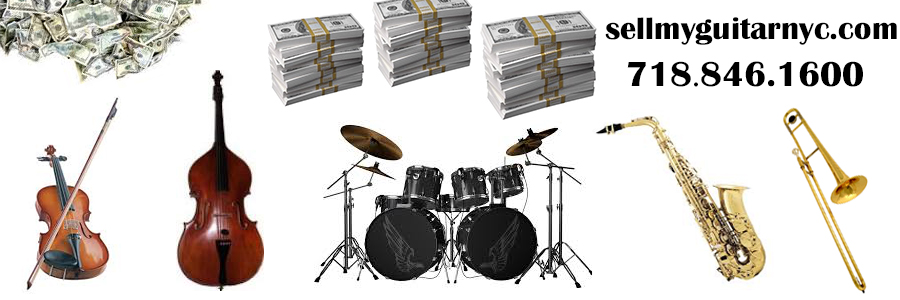
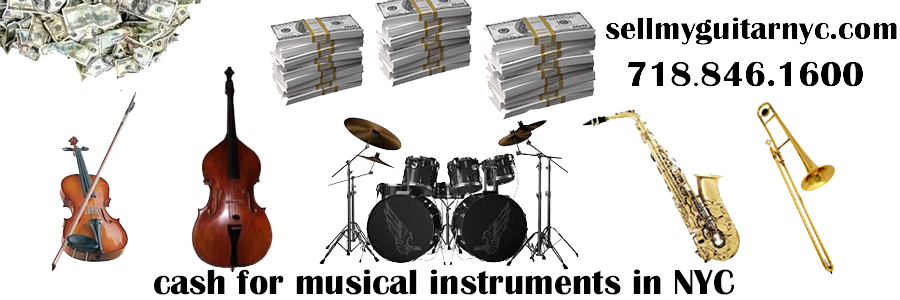
some changes

diff --git a/config/routes.rb b/config/routes.rb
@@ -3,12 +3,12 @@ Rails.application.routes.draw do
 
   get 'main/index'
   root 'main#index'    
-  get 'where-to-sell-silver-nyc-queens' => 'main#contacts', as: :contacts    
+  get 'where-to-sell-guitars-nyc-queens' => 'main#contacts', as: :contacts    
   get 'info-:second_title' => 'main#show_post', as: :show_post
   get 'about-sell-silver-nyc' => 'main#about', as: :about    
   post '/message' => 'main#message' , as: :message  
   get 'messages' => 'main#messages'
-  get 'how-do-we-buy-sylver-in-nyc' => 'main#how_it_works', as: :how_it_works    
+  get 'guitars-musical-instruments-buyer-nyc-queens' => 'main#how_it_works', as: :how_it_works    
   # The priority is based upon order of creation: first created -> highest priority.
   # See how all your routes lay out with "rake routes".
 
